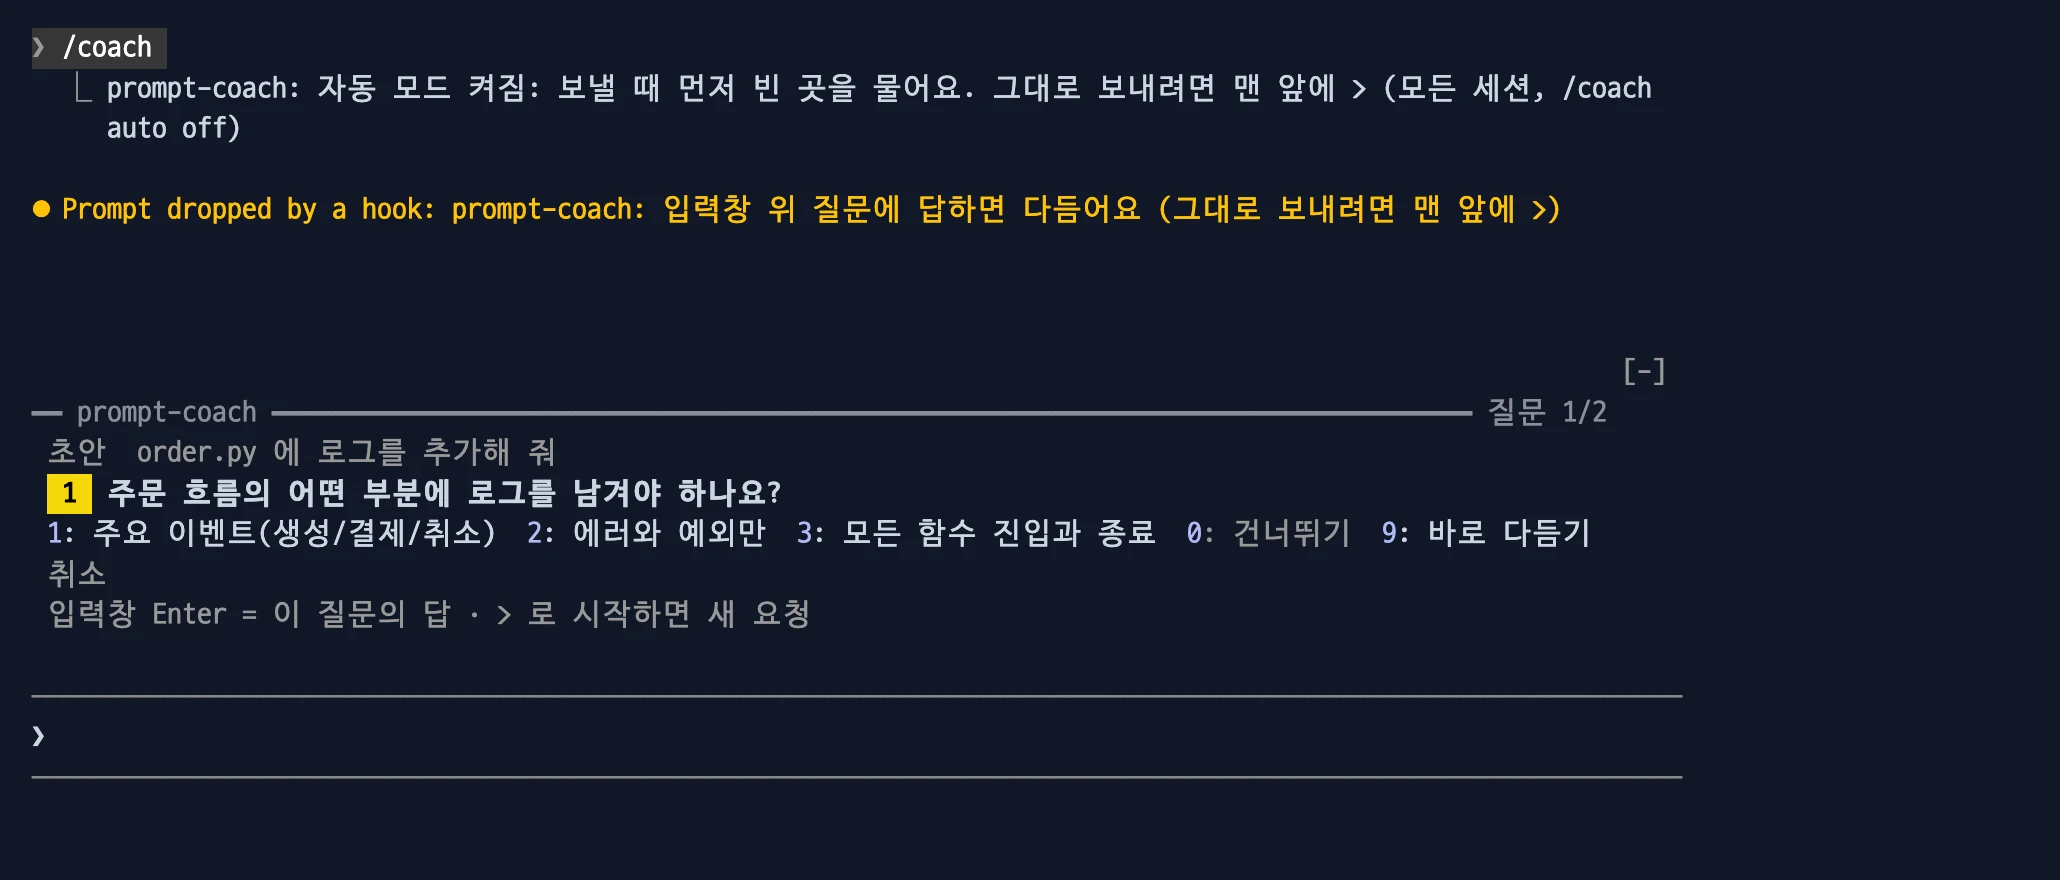
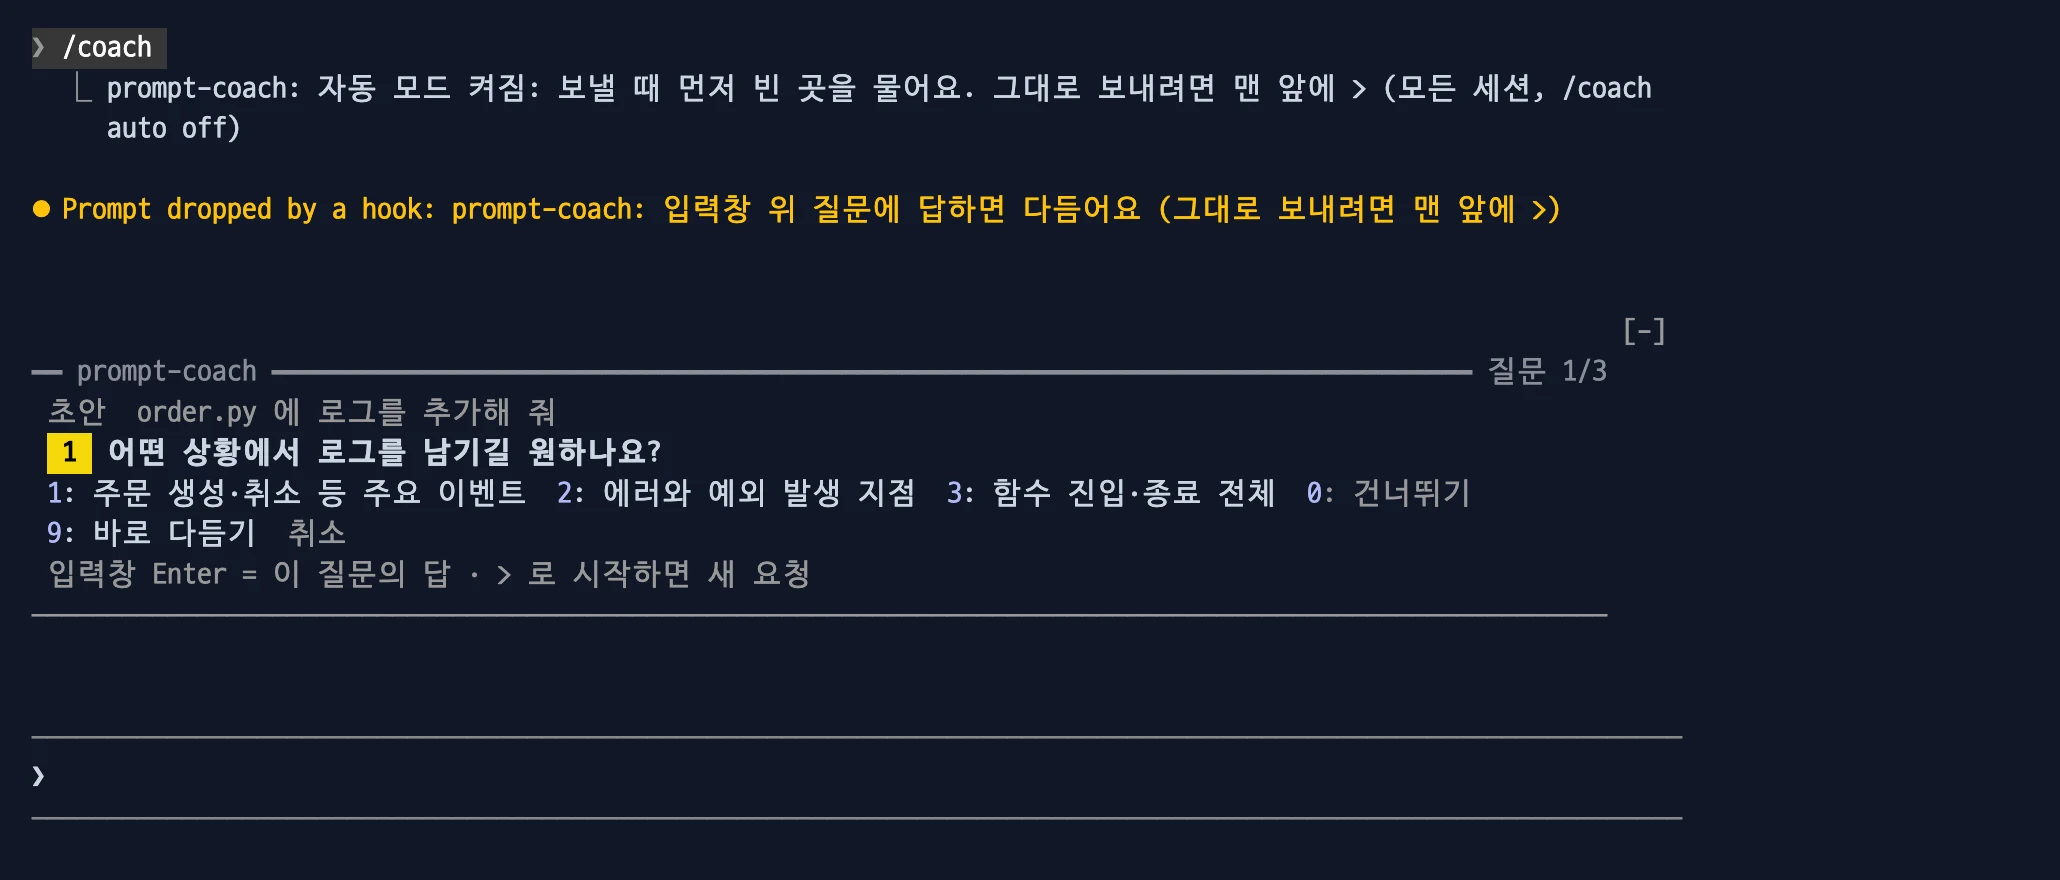
README: reshoot prompt-coach screenshots with the 0.3.3 band rule and blank line
Claude-Session: https://claude.ai/code/session_0171W1s1WD2Q3wd3CeGP9kTN

diff --git a/prompt-coach/README.md b/prompt-coach/README.md
@@ -21,7 +21,7 @@ claude plugin install prompt-coach@devflow-mods
   2. 다시 쓰기: 답을 넣어 목표 → 맥락 → 조건 → 완료 기준 순으로 다시 쓰고 입력창을 바꿉니다.
 - 질문하는 동안 입력창은 비워 둡니다. 초안은 띠의 `초안` 줄에 보입니다. 입력창이 비어 있어서 숫자 키로 답할 수 있습니다.
 
-<img src="../docs/images/prompt-coach-question.webp" alt="띠에 초안과 질문 1/2 어떤 증상으로 재고 해제가 잘못되고 있나요? 와 선택지 1~3, 0 건너뛰기, 9 바로 다듬기" width="760">
+<img src="../docs/images/prompt-coach-question.webp" alt="띠에 초안과 질문 1/3 어떤 증상으로 재고가 잘못 해제되나요? 와 선택지 1~3, 0 건너뛰기, 9 바로 다듬기" width="760">
 
 | 질문 중 입력 | 동작 |
 | --- | --- |
@@ -34,7 +34,7 @@ claude plugin install prompt-coach@devflow-mods
 
 - 다시 쓴 뒤 띠에 `답 n · 제안 n` 과 보탠 것이 보입니다. 초록은 답에서 온 것, 노랑은 Haiku가 스스로 보탠 결과 모양이나 완료 확인입니다. 고치거나 그대로 보내세요.
 
-<img src="../docs/images/prompt-coach-result.webp" alt="입력창에 증상·완료 기준이 붙은 다듬은 글, 띠에 답 2 와 초록색 보탠 것 두 줄, [ 되돌리기 ]" width="760">
+<img src="../docs/images/prompt-coach-result.webp" alt="입력창에 증상·제약·완료 기준이 붙은 다듬은 글, 띠에 답 2 · 제안 1 과 초록색 답 두 개·노랑 제안 하나, [ 되돌리기 ]" width="760">
 
 이럴 때: 다시 쓴 글에서 노란 제안이 원하는 것과 다르면 그 줄만 고쳐 보냅니다.
 
@@ -74,7 +74,7 @@ claude plugin install prompt-coach@devflow-mods
 
 켜면 입력창에서 보낼 때마다 먼저 묻고 다듬습니다. 보낸 글은 바로 Claude에게 가지 않고(`Prompt dropped by a hook` 이 보입니다) 띠에서 질문이 시작됩니다. 그대로 보내려면 맨 앞에 `>` 를 붙이세요. 기본은 꺼짐이고, 모든 세션에 같이 적용됩니다.
 
-<img src="../docs/images/prompt-coach-auto.webp" alt="자동 모드 켜짐 안내, 보낸 초안이 Prompt dropped by a hook 으로 멈추고 띠에 질문 1/2" width="760">
+<img src="../docs/images/prompt-coach-auto.webp" alt="자동 모드 켜짐 안내, 보낸 초안이 Prompt dropped by a hook 으로 멈추고 띠에 질문 1/3" width="760">
 
 이럴 때: 요청을 짧게 쓰는 버릇이 있어 매번 다듬기를 누르기 번거로울 때 켭니다.
 

diff --git a/README.md b/README.md
@@ -280,7 +280,7 @@ Orca 도크처럼 좁은 패널에서는 카드 머리줄이 덜 중요한 것(c
 
 ## 📝 prompt-coach: 초안 다듬기
 
-<img src="docs/images/prompt-coach-question.webp" alt="초안 place_order 재고 해제 고쳐줘 에 대해 prompt-coach 가 객관식 질문 1/2 를 띄운 띠" width="760">
+<img src="docs/images/prompt-coach-question.webp" alt="초안 place_order 재고 해제 고쳐줘 에 대해 prompt-coach 가 객관식 질문 1/3 을 띄운 띠" width="760">
 
 옵션별 그림과 사용 예는 [prompt-coach/README.md](prompt-coach/README.md)를 보세요.
 
